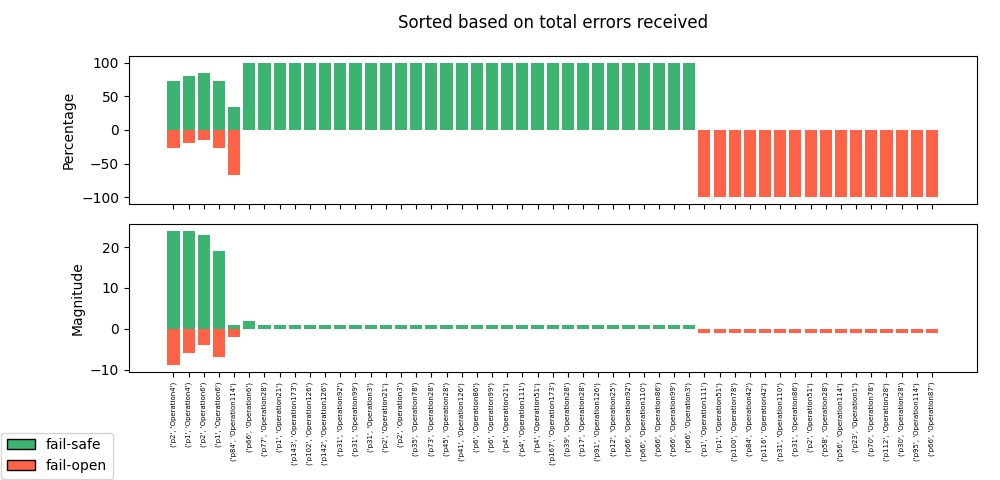
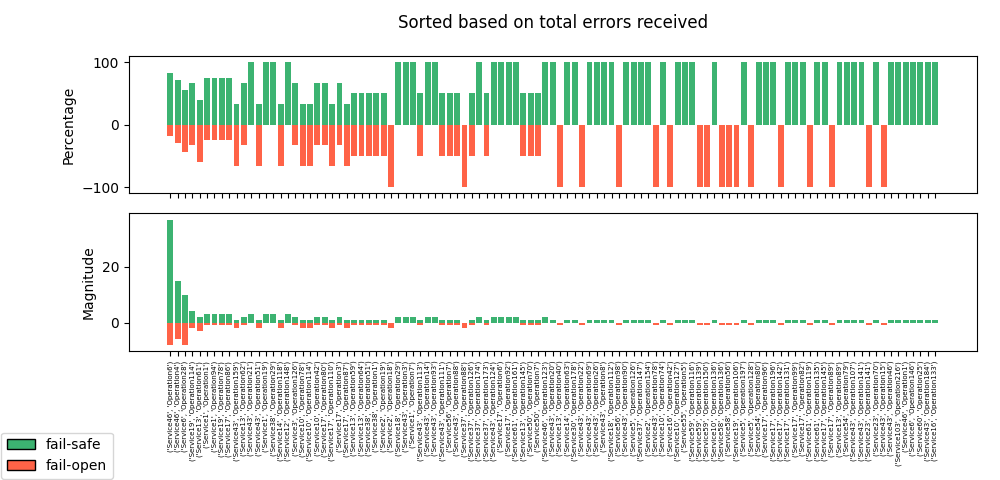
graphers updated

diff --git a/graphers/grapher_safe.py b/graphers/grapher_safe.py
@@ -1,7 +1,7 @@
 import matplotlib.pyplot as plt
 import matplotlib.patches as mpatches
 # reading the data from the file
-with open('out/dict.txt') as f:
+with open('../out/dict.txt') as f:
     data = f.read()
   
 data = data.splitlines()
@@ -14,7 +14,7 @@ names = []
 pairs = {}
 for pair in data:
     pair = pair.split(':')
-    values = list(map(int,pair[1].split()))
+    values = list(map(int,pair[1].split()[0:4]))
     key = tuple(pair[0].split())
     if values[0] != 0:
         pairs[key] = values
@@ -32,7 +32,7 @@ for pair in data:
 
 
 
-pairs = dict(sorted(pairs.items(), key = lambda x:x[1][2],reverse=True))
+pairs = dict(sorted(pairs.items(), key = lambda x:x[1][1],reverse=True))
 for key,values in pairs.items():    
     recovered = values[1]
     passed = values[2]
@@ -69,7 +69,7 @@ fig, (ax,plt1) = plt.subplots(2,1,sharex=True)
 # ax.bar(x, positive_data, width=0.1, color='b')
 ax.bar(names,positive_data,color='mediumseagreen')
 ax.bar(names,negative_data,color='tomato')
-ax.set_title("Sorted based on total errors received",pad=20)
+ax.set_title("Sorted based on total errors recovered",pad=20)
 plt.xticks(rotation=90)
 ax.set_ylabel("Percentage")
 
